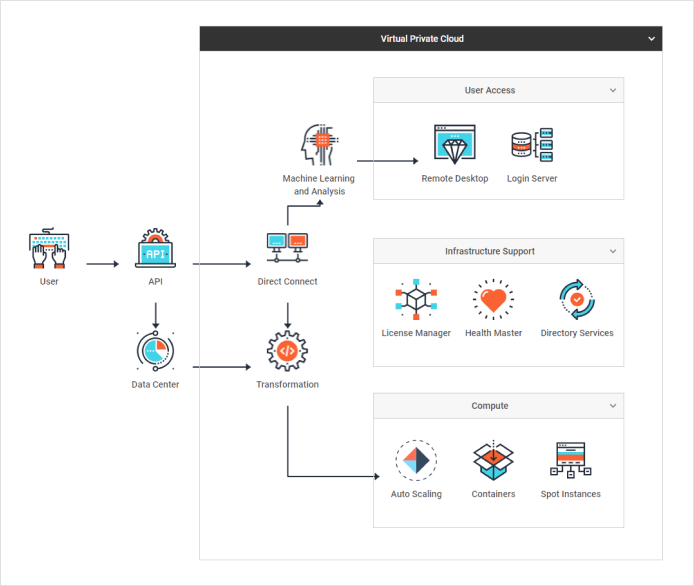
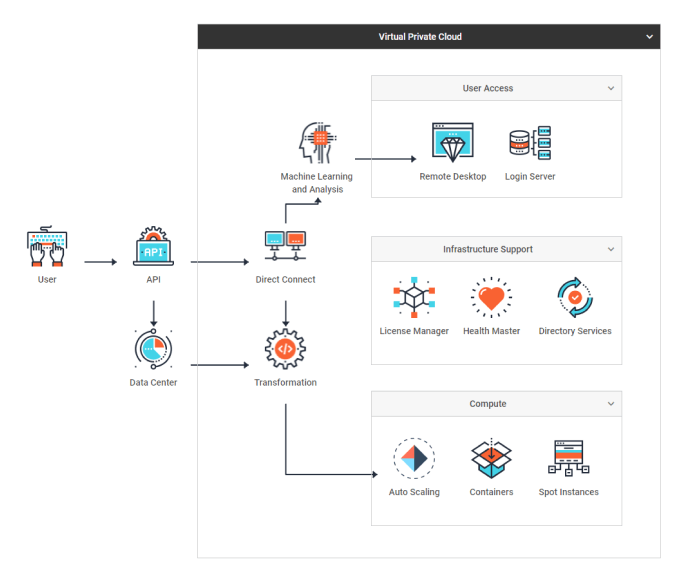
[update] overview

diff --git a/docs/overview.md b/docs/overview.md
@@ -39,13 +39,18 @@ You can easily create your own templates of shapes and use them to design any di
 
 You can draw simple or more complicated schemes by grouping shapes in different ways with the help of such an element of Diagram as a group. It is possible to create as one-level groups as nested groups, to configure their appearance and behavior. Check the details in the [Groups configuration](diagram_guides/shapes_arrows_list.md#groupsconfiguration) article.
 
-<iframe src="https://snippet.dhtmlx.com/0hf8ahrb?mode=result" frameborder="0" class="snippet_iframe" width="100%" height="600"></iframe>
+
+|[Diagram. Default mode. Virtual private cloud architecture](https://snippet.dhtmlx.com/0hf8ahrb)|
+|---|
+|![](assets/virtual_cloud.png)|
 
 ### Swimlanes
 
 Usage of swimlanes of the DHTMLX Diagram library lets you represent any process (be it a business process, manufacturing or service one, and any other processes) or its separate parts from start to finish.
 
-<iframe src="https://snippet.dhtmlx.com/z6x5m3gb?mode=result" frameborder="0" class="snippet_iframe" width="100%" height="700"></iframe>
+|[Diagram. Default mode. Swimlane template](https://snippet.dhtmlx.com/z6x5m3gb)|
+|---|
+|![](assets/swimlane_overview.png)|
 
 Diagram in the org chart mode
 -----------------------
@@ -58,14 +63,18 @@ There is also an org chart mode of diagram that presents a set of shapes connect
 
 An example of adding custom shapes for creating a diagram to present the hierarchical organizational structure of a medical institution:
 
-<iframe src="https://snippet.dhtmlx.com/8fubjmlz?mode=result" frameborder="0" class="snippet_iframe" width="100%" height="600"></iframe>
+|[Diagram. Org chart mode. Medical hierarchy diagram template](https://snippet.dhtmlx.com/8fubjmlz)|
+|---|
+|![](assets/medical_hierarchy_overview.png)|
 
 Diagram in the mindmap mode
 --------------
 
 The mindmap mode is used to represent a core topic or idea surrounded by the branches of the subtopics.
 
-<iframe src="https://snippet.dhtmlx.com/twd25ww1?mode=result" frameborder="0" class="snippet_iframe" width="100%" height="600"></iframe>
+|[Diagram. Mindmap mode. Emotions mind map](https://snippet.dhtmlx.com/twd25ww1)|
+|---|
+|![](assets/mindmap_emotions.png)|
 
 The shapes are connected by curved lines and arranged around a central shape of the diagram.
 
@@ -85,9 +94,10 @@ The interface of the editor initialized in the default mode consists of four fun
 
 To build a diagram, you need either to drag the necessary items from the left panel or create a copy of the items via the per-item toolbar. You can adjust the attributes of the items via sidebar options of the right panel.
 
-![](assets/default_editor.gif)
 
-**Related sample:** [Diagram. Default mode. Wide flowchart](https://snippet.dhtmlx.com/4d4k3o8p)
+|[Diagram. Default mode. Wide flowchart](https://snippet.dhtmlx.com/4d4k3o8p)|
+|--|
+|![](assets/default_editor.gif)|
 
 
 If you need to edit a custom shape you may customize the left panel and configure the right panel according to the attributes of your shape.
@@ -101,7 +111,10 @@ The interface of the editor initialized in the org chart mode consists of three 
 To build a diagram in the org chart mode of the editor, you need to select a shape and add a new child for it.
 You can adjust the attributes of the shapes via the available sidebar options of the right panel.
 
-![](assets/orgchart_editor.gif)
+|[Diagram editor. Org chart mode. Basic initialization](https://snippet.dhtmlx.com/og4qm3ja)|
+|--|
+|![](assets/orgchart_editor.gif)|
+
 
 In the example below, you can notice that a set of sidebar options for editing the attributes of the shape with an image differs from the sidebar options for editing a simple card.
 
@@ -115,27 +128,11 @@ The interface of the editor initialized in the mindmap mode consists of three pa
 
 To build a diagram in the mindmap mode of the editor, you need to select a shape and add a new child for it. You can adjust the attributes of the shapes via the available sidebar options of the right panel.
 
-![](assets/mindmap_editor.gif)
-
-**Related sample:** [Diagram editor. Mindmap mode. Emotions mind map](https://snippet.dhtmlx.com/lo1vm0e8)
+|[Diagram editor. Mindmap mode. Emotions mind map](https://snippet.dhtmlx.com/lo1vm0e8)|
+|--|
+|![](assets/mindmap_editor.gif)|
 
 If you've added a custom shape to the editor in the org chart mode, you can configure the right panel to be able to edit custom properties of the shape.
-
-Custom Diagram
---------------
-
-You can build your own diagram by creating custom shapes of the desired appearance and linking them by suitable connectors, as well as create groups and swimlanes of different configurations.
-
-|[Life Cycle Diagram](https://snippet.dhtmlx.com/y4k51owl)|[Venn Diagram](https://snippet.dhtmlx.com/2tzyfois)|[UML Class Diagram](https://snippet.dhtmlx.com/madymxt5)|
-|-----|-----|---|
-|![](assets/sticky.png)|![](assets/venn.png)| ![](assets/html.png)  |
-
-
-|[Medical Hierarchy](https://snippet.dhtmlx.com/8fubjmlz)|[Network Diagram](https://snippet.dhtmlx.com/u1xqyo9w)|[Site map and user flow](https://snippet.dhtmlx.com/do1jwmw1)
-|---|---|----|
-|![](assets/medical_hierarchy.png)|![](assets/network.png)|![](assets/sitemap.png)|
-
-
 
 Shape Search
 ---------------
